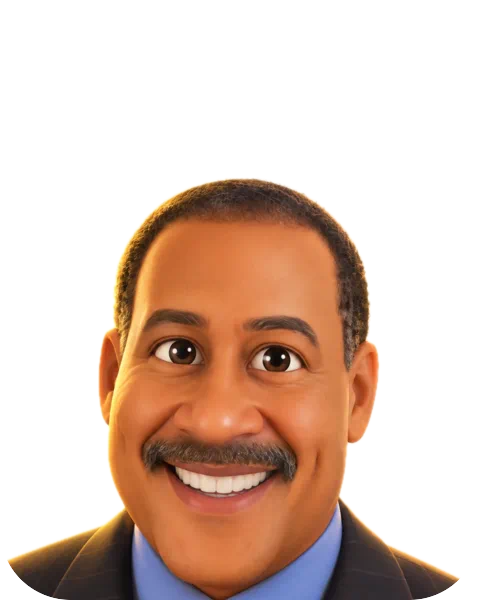
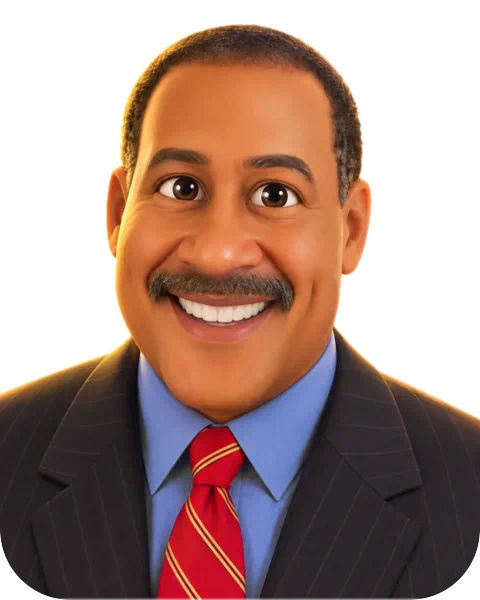
fix(chamber): keep the chest in bust crops, add framing test, ship all nine portraits
The crop box came from %@ on the alpha mask, which trims the solid bottom rows
as background and cut the chest off. A 1px black border keeps them. Adds 4%
headroom, rebuilds all nine busts (oprah-winfrey included), and the test now
fails when the bottom edge is not opaque or headroom exceeds 10%.

diff --git a/77-council-of-wise-elders/runtime/tests/chamber-seats.test.ts b/77-council-of-wise-elders/runtime/tests/chamber-seats.test.ts
@@ -114,6 +114,13 @@ test('generated portraits are 480x600 alpha cutouts with clear corners, <=120KB'
     // The figure itself is opaque and the background is not: guards a cream rectangle.
     const mean = Number(magick([file, '-alpha', 'extract', '-format', '%[fx:mean]', 'info:']));
     assert.ok(mean > 0.3 && mean < 0.8, `${f} alpha coverage ${mean}`);
+    // Chest-up framing: the shoulders reach row 590 (clear of the mask edge row) (outside the 70px rounded corners)
+    // and the empty space above the head is at most 10% of the frame.
+    const bottom = Number(magick([file, '-alpha', 'extract', '-crop', '340x1+70+590', '+repage', '-format', '%[fx:mean]', 'info:']));
+    assert.ok(bottom > 0.8, `${f} bottom row not opaque (${bottom}): chest cut off`);
+    const trimmed = magick([file, '-alpha', 'extract', '-threshold', '10%', '-bordercolor', 'black', '-border', '1', '-format', '%@', 'info:']);
+    const top = Number(trimmed.split('+')[2]) - 1;
+    assert.ok(top <= 60, `${f} figure starts ${top}px down, more than 10% headroom`);
   }
 });
 
